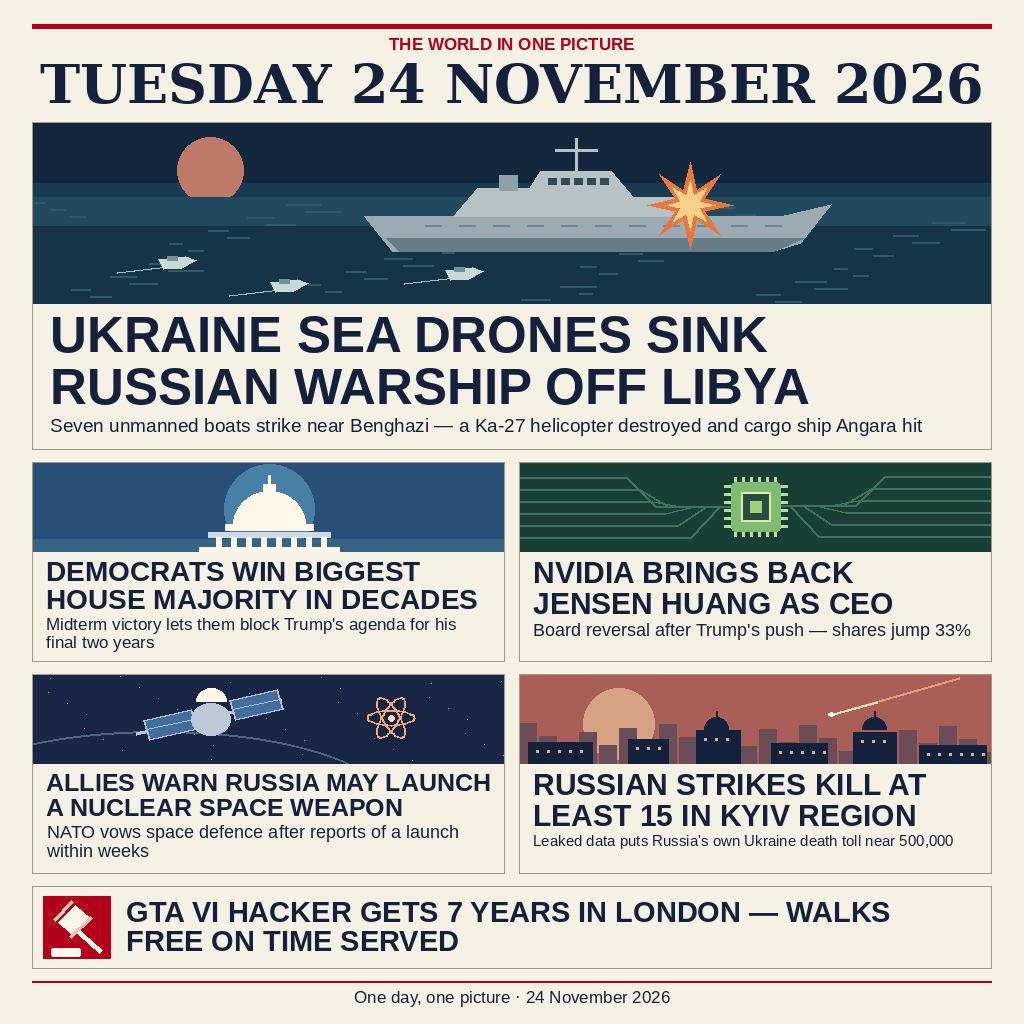
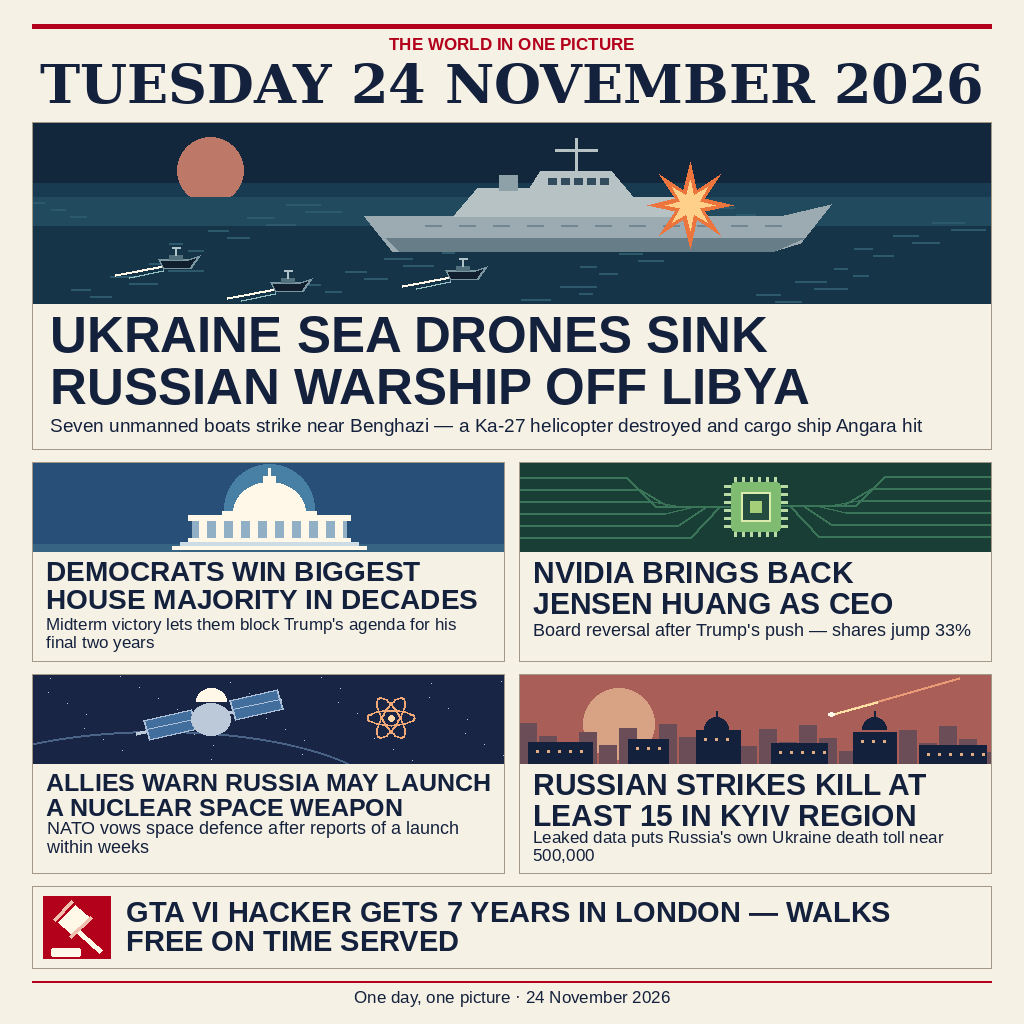
Improve front page: clearer sea drones, Capitol facade, subline padding, main.ts header

diff --git a/main.ts b/main.ts
@@ -1,3 +1,4 @@
+// Copy the bundled entry.png to MAKEFUN_OUTPUT_DIR, which defaults to /output.
 import { copyFileSync, mkdirSync } from "node:fs";
 import { join } from "node:path";
 

diff --git a/make_image.py b/make_image.py
@@ -72,10 +72,15 @@ def sea(draw):
         draw.line((x, 103, x + 16, 103), fill="#718894", width=2)
 
     for x, y in [(126, 142), (238, 165), (413, 153)]:
-        draw.line((x - 41, y + 8, x + 10, y + 2), fill="#94c1c4", width=2)
-        draw.polygon([(x, y - 5), (x + 27, y - 8), (x + 38, y - 4),
-                      (x + 23, y + 4), (x + 5, y + 5)], fill="#cad8d6")
-        draw.rectangle((x + 9, y - 8, x + 19, y - 4), fill="#6d939c")
+        draw.line([(x - 43, y + 11), (x - 21, y + 7), (x + 5, y + 2)],
+                  fill=WHITE, width=3)
+        draw.line((x - 29, y + 13, x + 5, y + 6), fill="#94c1c4", width=2)
+        draw.polygon([(x, y - 5), (x + 30, y - 5), (x + 42, y - 9),
+                      (x + 33, y + 4), (x + 5, y + 5)],
+                     fill="#101e2d", outline="#7996a1", width=2)
+        draw.rectangle((x + 11, y - 9, x + 24, y - 5), fill="#52707c")
+        draw.line((x + 18, y - 9, x + 18, y - 17), fill="#b0c3c9", width=2)
+        draw.line((x + 14, y - 17, x + 22, y - 17), fill="#b0c3c9", width=2)
 
     for outer, inner, color in [(43, 16, "#ec753d"), (25, 10, "#ffd08a")]:
         points = []
@@ -88,15 +93,18 @@ def sea(draw):
 
 def capitol(draw):
     draw.ellipse((192, 2, 282, 92), fill="#487fa5")
-    draw.rectangle((0, 77, 472, 89), fill="#386484")
-    draw.pieslice((201, 29, 273, 96), 180, 360, fill=WHITE)
-    draw.rectangle((231, 22, 243, 31), fill=WHITE)
-    draw.line((237, 13, 237, 25), fill=WHITE, width=3)
-    draw.rectangle((193, 62, 281, 68), fill=WHITE)
-    draw.rectangle((176, 70, 298, 75), fill="#cddce4")
-    for x in range(184, 293, 15):
-        draw.rectangle((x, 75, x + 5, 88), fill=WHITE)
-    draw.rectangle((167, 85, 307, 89), fill=WHITE)
+    draw.rectangle((0, 82, 472, 89), fill="#386484")
+    draw.pieslice((201, 20, 273, 80), 180, 360, fill=WHITE)
+    draw.rectangle((231, 14, 243, 23), fill=WHITE)
+    draw.line((237, 6, 237, 16), fill=WHITE, width=3)
+    draw.rectangle((190, 49, 284, 55), fill=WHITE)
+    draw.rectangle((160, 56, 314, 76), fill="#91afc5")
+    draw.rectangle((156, 53, 318, 58), fill=WHITE)
+    for x in range(167, 305, 17):
+        draw.rectangle((x, 59, x + 7, 75), fill=WHITE)
+    draw.rectangle((156, 76, 318, 79), fill=WHITE)
+    draw.rectangle((148, 80, 326, 83), fill="#cddce4")
+    draw.rectangle((140, 84, 334, 87), fill=WHITE)
 
 
 def chip(draw):
@@ -211,7 +219,8 @@ def main():
         draw.rectangle((x, y, x + 472, y + 199), outline=RULE)
         text_bottom = fit_text(draw, (x + 14, y + 100, x + 459, y + 155),
                                headline, BOLD, 30)
-        fit_text(draw, (x + 14, text_bottom + 9, x + 459, y + 190),
+        headline_gap = 5 if paint in (satellite, skyline) else 9
+        fit_text(draw, (x + 14, text_bottom + headline_gap, x + 459, y + 190),
                  subline, REGULAR, 18)
 
     draw.rectangle((32, 886, 991, 968), outline=RULE)
